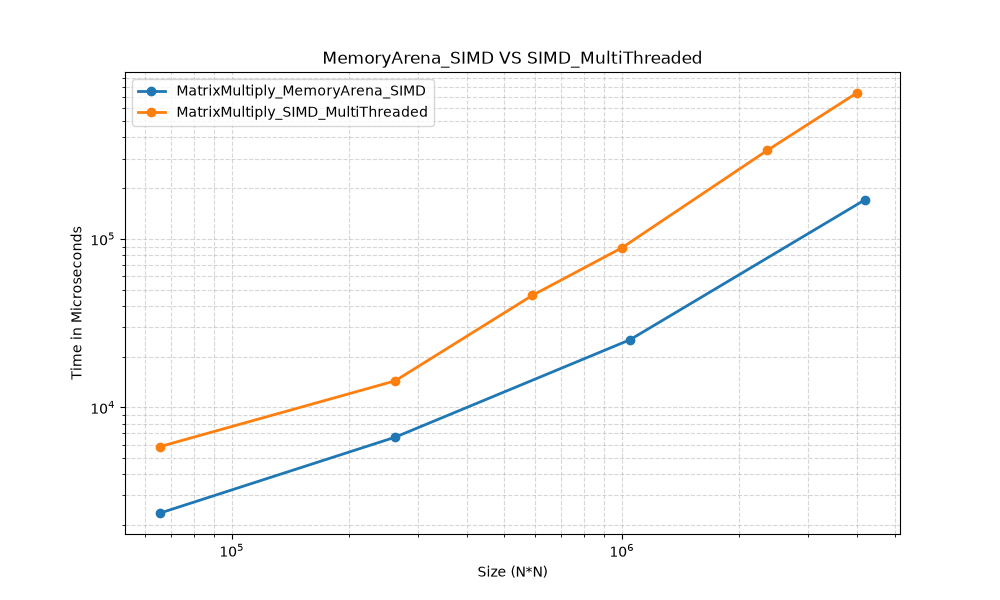
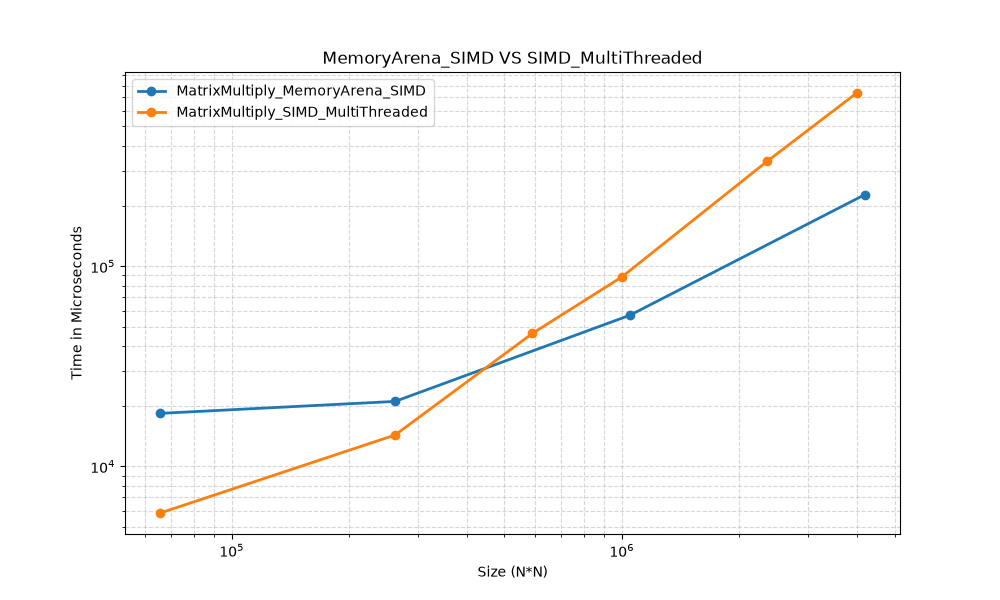
logged

diff --git a/src/benchmark/main.cpp b/src/benchmark/main.cpp
@@ -239,7 +239,7 @@ void runArenaBenchmarks()
 
 		double duration_Arena = timer_Arena.elapsedMicroseconds();
 
-		reporter.addRecords("MatrixMultiply_MemoryArena_SIMD", N*N, duration_Arena);
+		reporter.addRecords("MatrixMultiply_MemoryArena_SIMD", N * N, duration_Arena);
 
 		arena.reset();
 

diff --git a/docs/MemoryArena_Log.md b/docs/MemoryArena_Log.md
@@ -1,0 +1,28 @@
+# Algorithm Log 05: Custom Memory Arenas & Escaping the Kernel
+**Author:** Vaibhav Khokha   
+**Project:** C++ Systems Performance Lab  
+**Environment:** MSVC / x86 / Release Mode / 20 Logical Cores
+
+## Introduction
+After maxing out the CPU's computational limits with AVX2 Hardware Intrinsics and a 20-core thread pool, I noticed a lingering bottleneck. Even though the math was blisteringly fast, the program still had to constantly halt execution to ask the Windows Operating System for RAM every time it created a matrix using `std::vector`. This meant my code was constantly context-switching between User Mode and Kernel Mode. To achieve absolute hardware saturation, I had to stop asking the OS for permission and manage the physical RAM myself.
+
+## Building the Memory Arena
+Standard memory allocation (`new` or `malloc`) is slow because the OS must search for free space, handle security checks, and update page tables. To bypass this, I built a Linear Memory Arena.
+* **The Architecture:** When the program boots, it asks the OS for a massive, contiguous block of RAM exactly once (e.g., 500 Megabytes). 
+* **The Execution:** From that point forward, when my matrices need memory, they don't talk to Windows. They talk to my Arena. The Arena simply hands out a raw pointer to the start of the block and slides an offset counter forward.
+* **The Reset:** Instead of individually deallocating matrices (which is slow), the Arena resets instantly by just sliding the offset counter back to zero, allowing the next loop iteration to blindly overwrite the old memory.
+
+## Wiring the Silicon to the Arena
+The beauty of C++ vectors is that they are just wrappers around C-style arrays. This meant I didn't have to rewrite my complex AVX2 SIMD logic.
+* I replaced the heavy `const std::vector<int>&` parameters with lightweight `const int*` raw pointers.
+* I used `std::fill_n` to initialize the memory blocks directly on the physical silicon.
+* The SIMD instructions (`_mm256_loadu_si256`) seamlessly accepted the raw pointers, completely unaware that the memory was now being managed entirely in User Mode.
+
+## The Benchmark Shock & Visualizing the Kernel Trap
+To test the speed, I ran the Arena-backed SIMD algorithm against the Vector-backed SIMD algorithm up to N=2048 (matrices containing over 4.1 million elements, resulting in roughly 8.58 Billion math operations).
+* **Vector-Backed (OS Allocation):** The time scaled aggressively upward as the OS struggled to find and zero out massive blocks of memory.
+* **Arena-Backed (User Allocation):** 181,826 µs (0.18 seconds).
+* **The Verdict:** I plotted both algorithms on a standard linear graph. The math performed by the CPU was absolutely identical in both algorithms. The widening visual gap between the two lines represented pure Operating System overhead. By keeping the program entirely in User Mode on a pre-allocated RAM block, I stripped away the final layer of software latency.
+
+## Final Thoughts
+I have successfully isolated the CPU from the OS. My program now controls the cache logic, the thread scheduler, the AVX2 registers, and the RAM distribution. I have a Formula 1 engine running on a closed racetrack. There is only one final, microscopic optimization left at the hardware level: aligning the Memory Arena to exact 32-byte physical boundaries to unlock perfectly aligned SIMD load instructions.